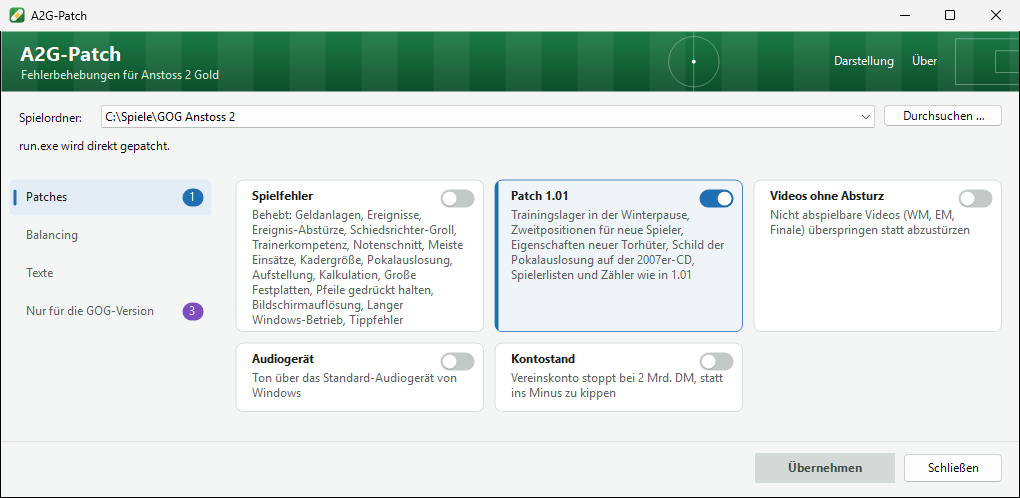
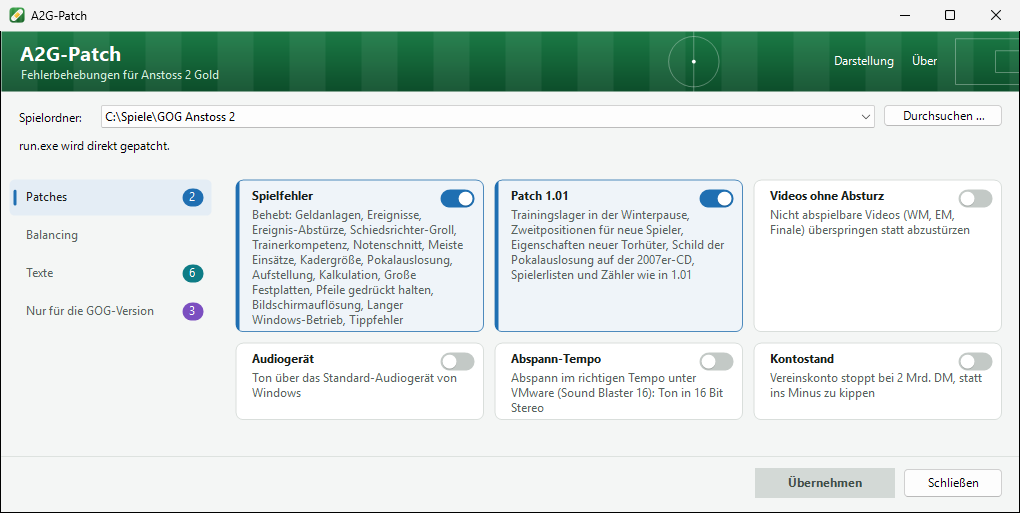
Pre-release check: outro and quiz on the English page and under the hood, outro in the README, quiz file named, doc comments, new screenshot

diff --git a/site/en/index.html b/site/en/index.html
@@ -51,7 +51,7 @@
     </div>
     <figure class="shot">
       <div class="shot-glow" aria-hidden="true"></div>
-      <img src="../patch.png" width="1020" height="498" alt="The A2G-Patch window: game folder selection, the groups on the left and one tile with a switch per patch on the right">
+      <img src="../patch.png" width="1020" height="513" alt="The A2G-Patch window: game folder selection, the groups on the left and one tile with a switch per patch on the right">
     </figure>
   </div>
 </section>
@@ -59,7 +59,7 @@
 <section id="patches" class="section">
   <div class="wrap">
     <h2 class="section-title"><span>01</span>The patches</h2>
-    <p class="intro">Groups in the window: under <b>Patches</b>, the “<b>Spielfehler</b>” switch fixes sixteen of the game's bugs at once; next to it are patch 1.01 and the patches against crashes and problems with current Windows (videos, audio device), and the upper limit for the bank balance. <b>Balancing</b> changes how the game plays. Under <b>Texte</b> are the euro, today’s names and terms, for every release. Four more patches are for the GOG release only.</p>
+    <p class="intro">Groups in the window: under <b>Patches</b>, the “<b>Spielfehler</b>” switch fixes sixteen of the game's bugs at once; next to it are patch 1.01 and the patches against crashes and problems with current Windows (videos, audio device), the outro under VMware and the upper limit for the bank balance. <b>Balancing</b> changes how the game plays. Under <b>Texte</b> are the euro, today’s names and terms and the quiz questions, for every release. Four more patches are for the GOG release only.</p>
     <div class="cards">
       <article class="card">
         <div class="card-head">
@@ -212,6 +212,14 @@
         </div>
         <h3>Sound on the Windows default audio device</h3>
         <p>The game takes the last sound device it finds instead of the one set in Windows. With monitor speakers and a headset, the sound easily ends up on the wrong one. With the patch it comes out where Windows sends it.</p>
+      </article>
+      <article class="card">
+        <div class="card-head">
+          <span class="tag tag-fix">Patch</span>
+          <svg class="icon" viewBox="0 0 24 24" aria-hidden="true"><rect x="3" y="5" width="18" height="14" rx="2"/><path d="M10 9.5v5l4.5-2.5z"/></svg>
+        </div>
+        <h3>The outro at the right speed under VMware</h3>
+        <p>Under Windows 98 in VMware (Sound Blaster 16), the outro shown when the game ends ran through in 40 instead of 80 seconds, its sound rushed. The game leaves DirectSound in 8-bit format; after that, the next sound through the normal Windows audio plays twice as fast. With the patch the game sets the sound to the format of its music when it starts, 16-bit stereo. The exe keeps its size, so A2G-Trainer still recognises it.</p>
       </article>
       <article class="card">
         <div class="card-head">
@@ -409,7 +417,7 @@
       </div>
       <div class="rel">
         <div class="rel-head"><b>Texts, every release</b><code>RESDLL.dll</code></div>
-        <p>The switches under “Texte” and the typing errors change <code>RESDLL.dll</code>, the event texts and the tips directly, without a backup. Switched off, the files are byte for byte as before.</p>
+        <p>The switches under “Texte” and the typing errors change <code>RESDLL.dll</code>, the event texts, the tips and the quiz directly, without a backup. Switched off, the files are byte for byte as before.</p>
       </div>
     </div>
   </div>
@@ -485,6 +493,13 @@ brakes: jle (7E)                                  →  jmp (EB)</code></pre>
         <summary><b>Sound device</b><span>The wrong GUID</span></summary>
         <p>While enumerating, the game remembers the device with the most 3D buffers. Since Vista all report 0 there, on a tie the last one wins, and its GUID goes to <code>DirectSoundCreate</code>. With NULL, DirectSound takes the Windows default device:</p>
 <pre><code>push &amp;guid (68 xx xx xx xx)  →  push esi / nop ×4   <i>; esi is 0 here</i></code></pre>
+      </details>
+      <details class="tech-item">
+        <summary><b>Outro speed</b><span>The primary buffer stays at 8&nbsp;bits</span></summary>
+        <p>The game opens DirectSound at the normal cooperative level; the primary buffer then keeps DirectSound’s default of 8&nbsp;bits. With VMware’s Sound Blaster 16, the next sound through <code>waveOut</code> then runs on a clock twice as fast, the outro among them (<code>EXTRO.AVI</code> through <code>MCIWnd</code>). The patch rewrites the 121&nbsp;bytes behind <code>DirectSoundCreate</code>: <code>GetCaps</code> fills its structure completely anyway, and a failed <code>SetCooperativeLevel</code> takes the identical way out right in front. The room this frees is enough for the primary buffer:</p>
+<pre><code>SetCooperativeLevel(hwnd, NORMAL)  →  (hwnd, PRIORITY)
+                                       CreateSoundBuffer(primary) / SetFormat(22050 Hz, 16 bits, stereo) / Release</code></pre>
+        <p>The buffer description and the format (38&nbsp;bytes) go into zeros behind the end of <code>.rdata</code> (1999) or into the import section (GOG); taking the patch back zeroes them again.</p>
       </details>
       <details class="tech-item">
         <summary><b>Disk warning</b><span>A 32-bit overflow</span></summary>
@@ -619,6 +634,10 @@ sort: selection with three copy loops       →  bubble sort, the routine in fro
       <details class="tech-item">
         <summary><b>Texts</b><span>A section of its own in RESDLL.dll</span></summary>
         <p>A longer text doesn’t fit in its place. So the changed string tables and dialogs go into a new section <code>.a2gtxt</code> at the end of <code>RESDLL.dll</code>, and the resource directory points there. The section keeps which switches are on and where each resource was before; every switch builds it anew from the originals. Only texts change, as whole words: “Gruppe&nbsp;1” leaves “Gruppe&nbsp;10” alone. Styles and positions stay, as the game tells its picture buttons by <code>WS_EX_CLIENTEDGE</code>. The game reads the event texts only at exactly their length; every switch replaces whole texts and evens out the length with spaces at the end of a text. For “Innenverteidiger” the message about a new main position gets shorter: “… hat eine neue Hauptposition gelernt: Innenverteidiger.”</p>
+      </details>
+      <details class="tech-item">
+        <summary><b>Quiz questions</b><span>The sizes are in the file’s header</span></summary>
+        <p>The manager course quiz is in <code>TEXTE\fort.saq</code>, the same in all three releases: the header holds the number of questions of each of the three levels, the number of texts and the length of the text block, then comes a table of where each text starts, then the block with inverted bytes. Each question is followed by its answers, separated by commas, the right one first. The game reads counts and sizes from the header, so texts may change length. “Quizfragen” replaces whole questions in their place, “Neue Quizfragen” adds questions at the end of their level; each writes the file anew independently of the other, and switched off it is the original to the byte again.</p>
       </details>
       <details class="tech-item">
         <summary><b>Copy protection (GOG)</b><span>Eleven CD checks, ten checksums</span></summary>

diff --git a/site/index.html b/site/index.html
@@ -51,7 +51,7 @@
     </div>
     <figure class="shot">
       <div class="shot-glow" aria-hidden="true"></div>
-      <img src="patch.png" width="1020" height="498" alt="Das Fenster von A2G-Patch: Spielordner-Auswahl, links die Gruppen, rechts je eine Kachel mit Schalter pro Patch">
+      <img src="patch.png" width="1020" height="513" alt="Das Fenster von A2G-Patch: Spielordner-Auswahl, links die Gruppen, rechts je eine Kachel mit Schalter pro Patch">
     </figure>
   </div>
 </section>
@@ -59,7 +59,7 @@
 <section id="patches" class="section">
   <div class="wrap">
     <h2 class="section-title"><span>01</span>Die Patches</h2>
-    <p class="intro">Im Fenster in Gruppen: Unter <b>Patches</b> behebt der Schalter „<b>Spielfehler</b>“ sechzehn Fehler des Spiels auf einmal; daneben stehen Patch 1.01 und die Patches gegen Abstürze und Probleme mit aktuellem Windows (Videos, Audiogerät), der Abspann unter VMware sowie die Obergrenze für den Kontostand. Das <b>Balancing</b> ändert, wie das Spiel spielt. Unter <b>Texte</b> stehen Euro, heutige Namen und Begriffe, für jede Version. Dazu kommen vier Patches nur für die GOG-Version.</p>
+    <p class="intro">Im Fenster in Gruppen: Unter <b>Patches</b> behebt der Schalter „<b>Spielfehler</b>“ sechzehn Fehler des Spiels auf einmal; daneben stehen Patch 1.01 und die Patches gegen Abstürze und Probleme mit aktuellem Windows (Videos, Audiogerät), der Abspann unter VMware sowie die Obergrenze für den Kontostand. Das <b>Balancing</b> ändert, wie das Spiel spielt. Unter <b>Texte</b> stehen Euro, heutige Namen und Begriffe sowie die Quizfragen, für jede Version. Dazu kommen vier Patches nur für die GOG-Version.</p>
     <div class="cards">
       <article class="card">
         <div class="card-head">
@@ -417,7 +417,7 @@
       </div>
       <div class="rel">
         <div class="rel-head"><b>Texte, alle Versionen</b><code>RESDLL.dll</code></div>
-        <p>Die Schalter unter „Texte“ und die Tippfehler ändern die <code>RESDLL.dll</code>, die Ereignistexte und die Tipps direkt, ohne Sicherung. Ausgeschaltet sind die Dateien wieder Byte für Byte wie vorher.</p>
+        <p>Die Schalter unter „Texte“ und die Tippfehler ändern die <code>RESDLL.dll</code>, die Ereignistexte, die Tipps und das Quiz direkt, ohne Sicherung. Ausgeschaltet sind die Dateien wieder Byte für Byte wie vorher.</p>
       </div>
     </div>
   </div>
@@ -493,6 +493,13 @@ brakes: jle (7E)                                  →  jmp (EB)</code></pre>
         <summary><b>Soundgerät</b><span>Die falsche GUID</span></summary>
         <p>Beim Aufzählen merkt sich das Spiel das Gerät mit den meisten 3D-Puffern. Seit Vista melden alle dort 0, bei Gleichstand gewinnt das letzte, und dessen GUID geht an <code>DirectSoundCreate</code>. Mit NULL nimmt DirectSound das Standardgerät von Windows:</p>
 <pre><code>push &amp;guid (68 xx xx xx xx)  →  push esi / nop ×4   <i>; esi ist hier 0</i></code></pre>
+      </details>
+      <details class="tech-item">
+        <summary><b>Abspann-Tempo</b><span>Der primäre Puffer bleibt bei 8&nbsp;Bit</span></summary>
+        <p>Das Spiel öffnet DirectSound auf der normalen Kooperationsstufe; der primäre Puffer behält dann DirectSounds Vorgabe von 8&nbsp;Bit. Mit VMwares Sound Blaster 16 läuft danach der nächste Ton über <code>waveOut</code> auf einer doppelt so schnellen Uhr, darunter der Abspann (<code>EXTRO.AVI</code> über <code>MCIWnd</code>). Der Patch schreibt die 121&nbsp;Bytes hinter <code>DirectSoundCreate</code> um: <code>GetCaps</code> füllt seine Struktur ohnehin ganz, ein gescheitertes <code>SetCooperativeLevel</code> nimmt den gleichen Ausweg direkt davor. Der gewonnene Platz reicht für den primären Puffer:</p>
+<pre><code>SetCooperativeLevel(hwnd, NORMAL)  →  (hwnd, PRIORITY)
+                                       CreateSoundBuffer(primär) / SetFormat(22050 Hz, 16 Bit, Stereo) / Release</code></pre>
+        <p>Pufferbeschreibung und Format (38&nbsp;Bytes) liegen in Nullen hinter dem Ende von <code>.rdata</code> (1999) bzw. im Importabschnitt (GOG); zurückgenommen werden sie wieder zu Nullen.</p>
       </details>
       <details class="tech-item">
         <summary><b>Platz-Warnung</b><span>Ein 32-Bit-Überlauf</span></summary>
@@ -627,6 +634,10 @@ Sortierung: Auswahl mit drei Kopierschleifen  →  Bubblesort, davor die Routine
       <details class="tech-item">
         <summary><b>Texte</b><span>Ein eigener Abschnitt in der RESDLL.dll</span></summary>
         <p>Ein längerer Text passt nicht an seinen Platz. Die geänderten String-Tabellen und Dialoge kommen deshalb in einen neuen Abschnitt <code>.a2gtxt</code> am Ende der <code>RESDLL.dll</code>, und das Ressourcenverzeichnis zeigt dorthin. Der Abschnitt merkt sich, welche Schalter an sind und wo jede Ressource vorher lag; jeder Schalter baut ihn aus den Originalen neu. Geändert werden nur Texte, als ganze Wörter: „Gruppe&nbsp;1“ lässt „Gruppe&nbsp;10“ in Ruhe. Stile und Positionen bleiben, denn das Spiel erkennt seine Bildknöpfe an <code>WS_EX_CLIENTEDGE</code>. Die Ereignistexte liest das Spiel nur in genau ihrer Länge; jeder Schalter ersetzt ganze Texte und gleicht die Länge mit Leerzeichen am Textende aus. Für „Innenverteidiger“ wird die Meldung über eine neue Hauptposition kürzer: „… hat eine neue Hauptposition gelernt: Innenverteidiger.“</p>
+      </details>
+      <details class="tech-item">
+        <summary><b>Quizfragen</b><span>Die Größen stehen im Kopf der Datei</span></summary>
+        <p>Das Quiz der Managerfortbildung steht in <code>TEXTE\fort.saq</code>, in allen drei Versionen gleich: im Kopf die Zahl der Fragen jeder der drei Stufen, die Zahl der Texte und die Länge des Textblocks, dann eine Tabelle, wo jeder Text beginnt, dann der Block mit invertierten Bytes. Auf jede Frage folgen ihre Antworten, durch Kommas getrennt, die richtige zuerst. Das Spiel liest Zahlen und Größen aus dem Kopf, Texte dürfen also ihre Länge ändern. „Quizfragen“ ersetzt ganze Fragen an ihrem Platz, „Neue Quizfragen“ hängt Fragen ans Ende ihrer Stufe; beide schreiben die Datei unabhängig voneinander neu, ausgeschaltet ist sie wieder das Original aufs Byte.</p>
       </details>
       <details class="tech-item">
         <summary><b>Kopierschutz (GOG)</b><span>Elf CD-Abfragen, zehn Prüfsummen</span></summary>

diff --git a/Compat/Tasks.cs b/Compat/Tasks.cs
@@ -65,6 +65,7 @@ namespace System.Threading.Tasks
             return next;
         }
 
+        /// <summary>Runs <paramref name="work"/>, keeps its exception, marks the task done and starts the continuations.</summary>
         internal void Run(Action work)
         {
             try
@@ -113,6 +114,7 @@ namespace System.Threading.Tasks
             return new ContextScheduler(context);
         }
 
+        /// <summary>Hands <paramref name="work"/> to the thread this scheduler runs on.</summary>
         internal abstract void Queue(Action work);
 
         private sealed class ContextScheduler : TaskScheduler

diff --git a/README.md b/README.md
@@ -2,7 +2,8 @@
 
 Patches for **Anstoss 2 Gold**, switched on and off in one small window, one tile each in groups:
 
-"Patches": the game's bugs under one switch, patch 1.01, and fixes for crashes and current Windows.
+"Patches": the game's bugs under one switch, patch 1.01, and fixes for crashes, current Windows and the
+outro under VMware.
 
 - **Spielfehler** (Behebt: Geldanlagen, Ereignisse, …), one switch for sixteen bug fixes; each keeps its own places
   and DLL flag, and the switch counts as on once one of them is applied (an exe patched by an older
@@ -341,6 +342,28 @@ display: mov [esi+1C8],ebx (field already 0) before ChangeDisplaySettingsA(&mode
 The sound patch rebuilds the original instruction from the patched code: the kept GUID lies 0x18
 bytes before the DirectSound pointer, which the code mentions twice. The squad check keeps its call in
 place, so the new code fits the function's 32 bytes.
+
+**Outro speed.** The game plays `EXTRO.AVI` with `MCIWnd` when it ends. Before that, it has opened
+DirectSound behind `DirectSoundCreate` (`FUN_00653440` in the original exe) at the normal cooperative
+level, which leaves the primary buffer at DirectSound's default of 8 bits. With VMware's Sound Blaster 16,
+the next sound the same process plays through `waveOut` after a DirectSound sound then runs on a clock
+twice as fast. The patch rewrites the 121 bytes between the way out of a failed `DirectSoundCreate` and
+the function's end:
+
+```
+SetCooperativeLevel(hwnd, NORMAL) / je on, else way out      ->  (hwnd, PRIORITY) / jne to the way out in front
+clear caps / [argument] / [open] = 1 / size 60 / GetCaps      ->  [open] = 1 / [argument] / size 60 / GetCaps
+no third argument: [3D buffers] = caps+2C                      ->  the same
+                                                                  CreateSoundBuffer(primary) / SetFormat / Release
+```
+
+GetCaps fills the whole structure, so clearing it first isn't needed, and the failed
+`SetCooperativeLevel` reuses the identical way out in front; that makes room for the primary buffer.
+Its description and the format (`DSBUFFERDESC` with `DSBCAPS_PRIMARYBUFFER`, then PCM, 2 channels,
+22050 Hz, 16 bits; 38 bytes) go behind the virtual end of the first section that isn't executable and
+has zero room there (`.rdata` in the 1999 release), or else in front of the room of the interview stub
+(GOG's import section). Taking the patch back zeroes them again. The DirectSound pointer, the way out's
+call and the other addresses are taken from the game; every mention of the pointer must agree.
 
 **Cup draw.** The cup draw video (`FUN_00419e10` in the original exe) draws the club names with GDI into
 `CreateCompatibleBitmap(screen, 128, 32)` and copies them out with `GetBitmapBits(bitmap, 0x2000, ...)`,
